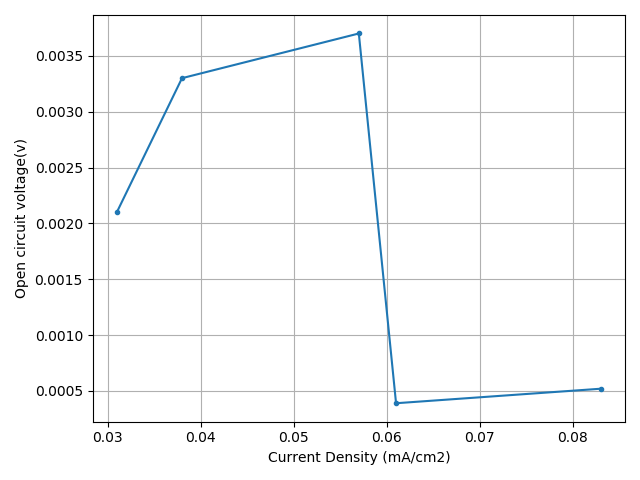
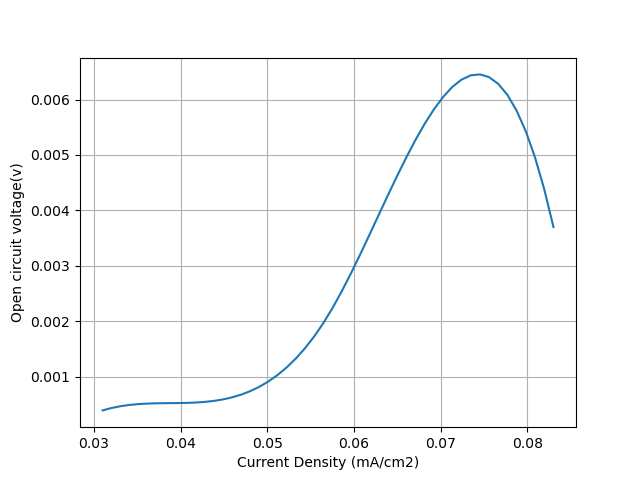
fix: make graph curvy

diff --git a/plots/power_vs_current_density.py b/plots/power_vs_current_density.py
@@ -1,20 +1,26 @@
+import numpy as np
+import matplotlib.pyplot as plt
+from scipy.interpolate import make_interp_spline
+
 # Graph of power density(y-axis) against current density(x-axis)
 
-import matplotlib.pyplot as plt
+power_density = np.array([0.047, 0.051, 0.067, 0.052, 0.055])
+current_density = np.array([0.031, 0.038, 0.057, 0.061, 0.083])
 
-power_density = [0.047, 0.051, 0.067, 0.052, 0.055]
-current_density = [0.031, 0.038, 0.057, 0.061, 0.083]
+# smoothen curve
+spline = make_interp_spline(current_density, power_density)
+spline_current_density = np.linspace(current_density.min(), current_density.max(), 5000)
+spline_power_density = spline(spline_current_density)
 
 # plot
 fig = plt.figure()
 ax = fig.add_subplot(1, 1, 1)
-ax.plot(current_density, power_density, '.-')
+ax.plot(spline_current_density, spline_power_density, '-')
 
-plt.ylabel("Power Density (mW/cm2))")
+plt.ylabel("Power Density (mW/cm2)")
 plt.xlabel("Current Density (mA/cm2)")
 
 ax.grid()
-
 plt.show()
 
 fig.savefig("../images/power_vs_current_density.png")

diff --git a/plots/voltage_power_density.py b/plots/voltage_power_density.py
@@ -1,17 +1,24 @@
+import numpy as np
 import matplotlib.pyplot as plt
+from scipy.interpolate import make_interp_spline, interp1d
 
 # Graph of cell voltage(y-axis) against power density(x-axis) at 500 C
 
-ocv = [0.0021, 0.0033, 0.0037, 0.00039, 0.00052]
-power_density = [0.047, 0.051, 0.067, 0.052, 0.055]
+ocv = np.array([0.0021, 0.0033, 0.0037, 0.00039, 0.00052])
+power_density = np.array([0.047, 0.051, 0.067, 0.052, 0.055])
+
+# smoothen curve
+spline = make_interp_spline(sorted(power_density), sorted(ocv))
+spline_power_density = np.linspace(min(power_density), max(power_density))
+spline_ocv = spline(spline_power_density)
 
 # plot
 fig = plt.figure()
 ax = fig.add_subplot(1, 1, 1)
-ax.plot(power_density, ocv, '.-')
+ax.plot(spline_power_density, spline_ocv, '-')
 
 plt.ylabel("Open circuit voltage(v)")
-plt.xlabel("Power Density (mW/cm2))")
+plt.xlabel("Power Density (mW/cm2)")
 
 ax.grid()
 plt.show()

diff --git a/plots/voltage_vs_current_density.py b/plots/voltage_vs_current_density.py
@@ -1,14 +1,22 @@
+import numpy as np
 import matplotlib.pyplot as plt
+from scipy.interpolate import make_interp_spline, interp1d
 
 # Graph of cell voltage(y-axis) against current density(x-axis)
 
-ocv = [0.0021, 0.0033, 0.0037, 0.00039, 0.00052]
-current_density = [0.031, 0.038, 0.057, 0.061, 0.083]
+ocv = np.array([0.0021, 0.0033, 0.0037, 0.00039, 0.00052])
+current_density = np.array([0.031, 0.038, 0.057, 0.061, 0.083])
+
+# smoothen curve
+spline = make_interp_spline(sorted(current_density), sorted(ocv))
+spline_current_density = np.linspace(min(current_density), max(current_density))
+spline_ocv = spline(spline_current_density)
 
 # plot
 fig = plt.figure()
 ax = fig.add_subplot(1, 1, 1)
-ax.plot(current_density, ocv, '.-')
+
+ax.plot(spline_current_density, spline_ocv, '-')
 
 plt.ylabel("Open circuit voltage(v)")
 plt.xlabel("Current Density (mA/cm2)")

diff --git a/plots/ocv_vs_temp.py b/plots/ocv_vs_temp.py
@@ -1,25 +1,30 @@
+import numpy as np
 import matplotlib.pyplot as plt
+from scipy.interpolate import make_interp_spline
 
 # Graph of Open Circuit voltage(y-axis) against Temperature (x-axis)
-ocv = [0.0021, 0.0033, 0.0037, 0.00039, 0.00052]
-temp = [50, 100, 200, 400, 500]
+ocv = np.array([0.0021, 0.0033, 0.0037, 0.00039, 0.00052])
+temp = np.array([50, 100, 200, 400, 500])
 
 ocv.sort()
 temp.sort()
 
+# smoothen curve
+spline = make_interp_spline(temp, ocv)
+spline_temp = np.linspace(temp.min(), temp.max())
+spline_ocv = spline(spline_temp)
+
 # plot
 fig = plt.figure()
 ax = fig.add_subplot(1, 1, 1)
-ax.plot(temp, ocv, '.-')
+ax.plot(spline_temp, spline_ocv, '-')
 
 plt.ylabel("Open circuit voltage(v)")
 plt.xlabel("Temperature(°C)")
-
 ax.grid()
 
 ax.set_xlim([0, 600])
 ax.set_ylim([0, 0.007])
 
 plt.show()
-
 fig.savefig("../images/ocv_vs_temp.png")
